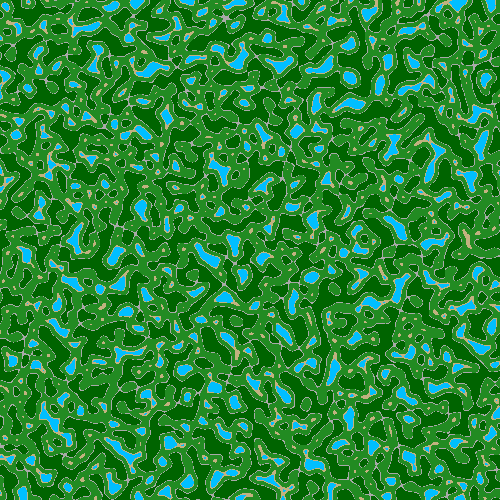
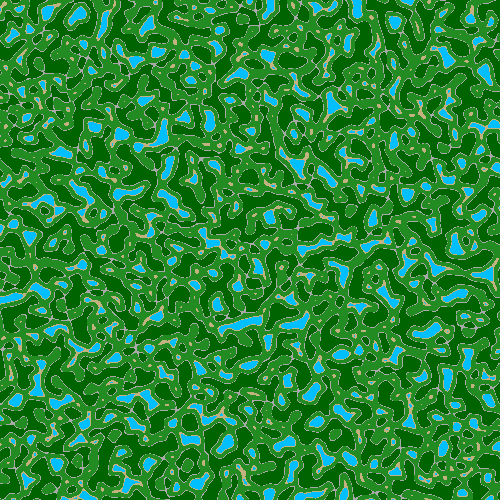
Work

diff --git a/src/main/java/com/example/rpg/PrimaryController.java b/src/main/java/com/example/rpg/PrimaryController.java
@@ -152,7 +152,7 @@ public class PrimaryController {
 
         Random r = new Random();
         System.out.print("\033[H\033[2J");
-        int i = 10000;
+        int i = 1000;
         for (int index = 0; index < i; index++) {
             int x = r.nextInt(mapWidth);
             int y = r.nextInt(mapHeight);
@@ -223,7 +223,8 @@ public class PrimaryController {
 
         private int[][] generateMap(int width, int height) {
             int[][] generatedMap = new int[height][width];
-            long seed = 781029377;
+            Random rand = new Random();
+            long seed = 100 + (long) (rand.nextDouble() * (1000000 - 100));
         
             for (int y = 0; y < height; y++) {
                 int percent = (y * 100) / height;
